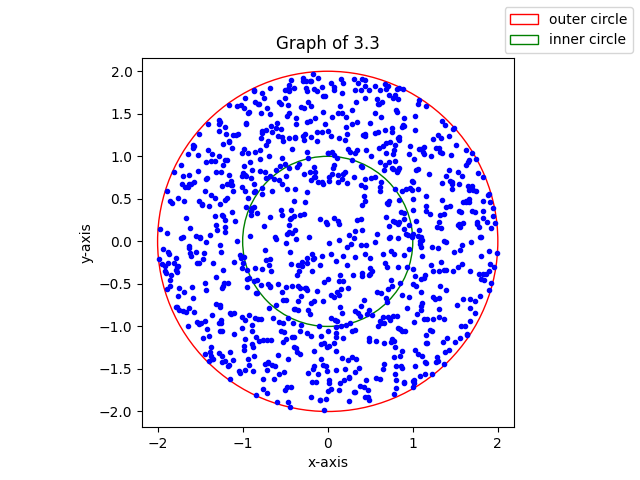
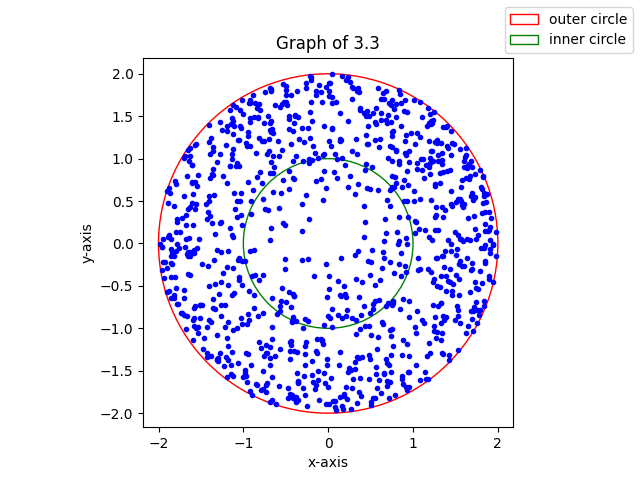
Q4

diff --git a/Q4.py b/Q4.py
@@ -1,0 +1,65 @@
+import matplotlib.pyplot as plt
+import numpy as np
+import math as m
+import random as rndm
+
+# 4.1 -------------------------------------------------------------------------------------------
+def random_theta():
+    theta1 = np.random.uniform(0,360)*(m.pi/180)
+    theta2 = np.random.uniform(0,360)*(m.pi/180)
+    return (theta1,theta2)
+
+def cord(R):
+    angle = random_theta()
+    theta = abs(angle[0] - angle[1])
+    l = 2*R*m.sin(theta/2)  #length of cord = 2rsin(theta/2)
+    return(l)
+
+def find_cords1(R):
+
+    cord_len = []
+    I = 1000    #iterations
+
+    for _ in range(I):
+        cord_len.append(cord(R))
+
+    plt.hist(cord_len, bins = range(0,R))
+    plt.title("Histogram of 4.1")
+    plt.savefig("Q4/Q4(1).png")
+    plt.show()
+
+# 4.2 -------------------------------------------------------------------------------------------
+def random_cord(R):
+
+    theta = np.random.uniform(0,360)*(m.pi/180)
+    point_at_radius = np.random.uniform(0,R)    #point at R
+
+    #cartesian cordinates at the picked point
+    x = point_at_radius*m.cos(theta)
+    y = point_at_radius*m.sin(theta)
+
+    #finding base line from center to point_at_radius using distance formula
+    base = m.sqrt(x**2+y**2)
+
+    #perpendicular using pythagorean theorem, p = sqrt(h^2-b^2)
+    perp = m.sqrt(R**2-base**2)
+
+    #length of the cord
+    l = 2*perp
+
+    return l
+
+def find_cords2(R):
+
+    cord_len = []
+    I = 1000    #iterations
+
+    for _ in range(I):
+        cord_len.append(random_cord(R))
+    
+    plt.hist(cord_len, bins = range(0,R))
+    plt.title("Histogram of 4.2")
+    plt.savefig("Q4/Q4(2).png")
+    plt.show()
+
+# 4.3 -------------------------------------------------------------------------------------------

diff --git a/Q3/Q3(3).py b/Q3/Q3(3).py
@@ -5,7 +5,7 @@ import math as m
 def random_point(radius):
 
     #R=radius, theta=angle
-    R = radius*m.sqrt(np.random.uniform(0, 1))  #random R in range 0-R
+    R = radius*(np.random.uniform(0,1))**(1/3)     #random R in range 0-R
     theta = np.random.uniform(0, 360)*(m.pi/180)   #random theta between 0-360 degrees
     return(polar_to_cart(R,theta))
 
@@ -32,12 +32,12 @@ def gen_points(l_radius):
     #Drawing the circle
     #Outer Circle
     fig, axes = plt.subplots()
-    circle1 = plt.Circle((0,0),2,Fill=False,color="red")
+    circle1 = plt.Circle((0,0),l_radius,Fill=False,color="red")
     axes.set_aspect(1)
     axes.add_artist(circle1)
 
     #inner circle
-    circle2 = plt.Circle((0,0),1,Fill=False,color="green")
+    circle2 = plt.Circle((0,0),l_radius/2,Fill=False,color="green")
     axes.set_aspect(1)
     axes.add_artist(circle2)
     fig.legend([circle1,circle2],["outer circle", "inner circle"])
@@ -50,4 +50,4 @@ def gen_points(l_radius):
     plt.show()
 
 #Testing
-x = gen_points(2)
+x = gen_points(5)
